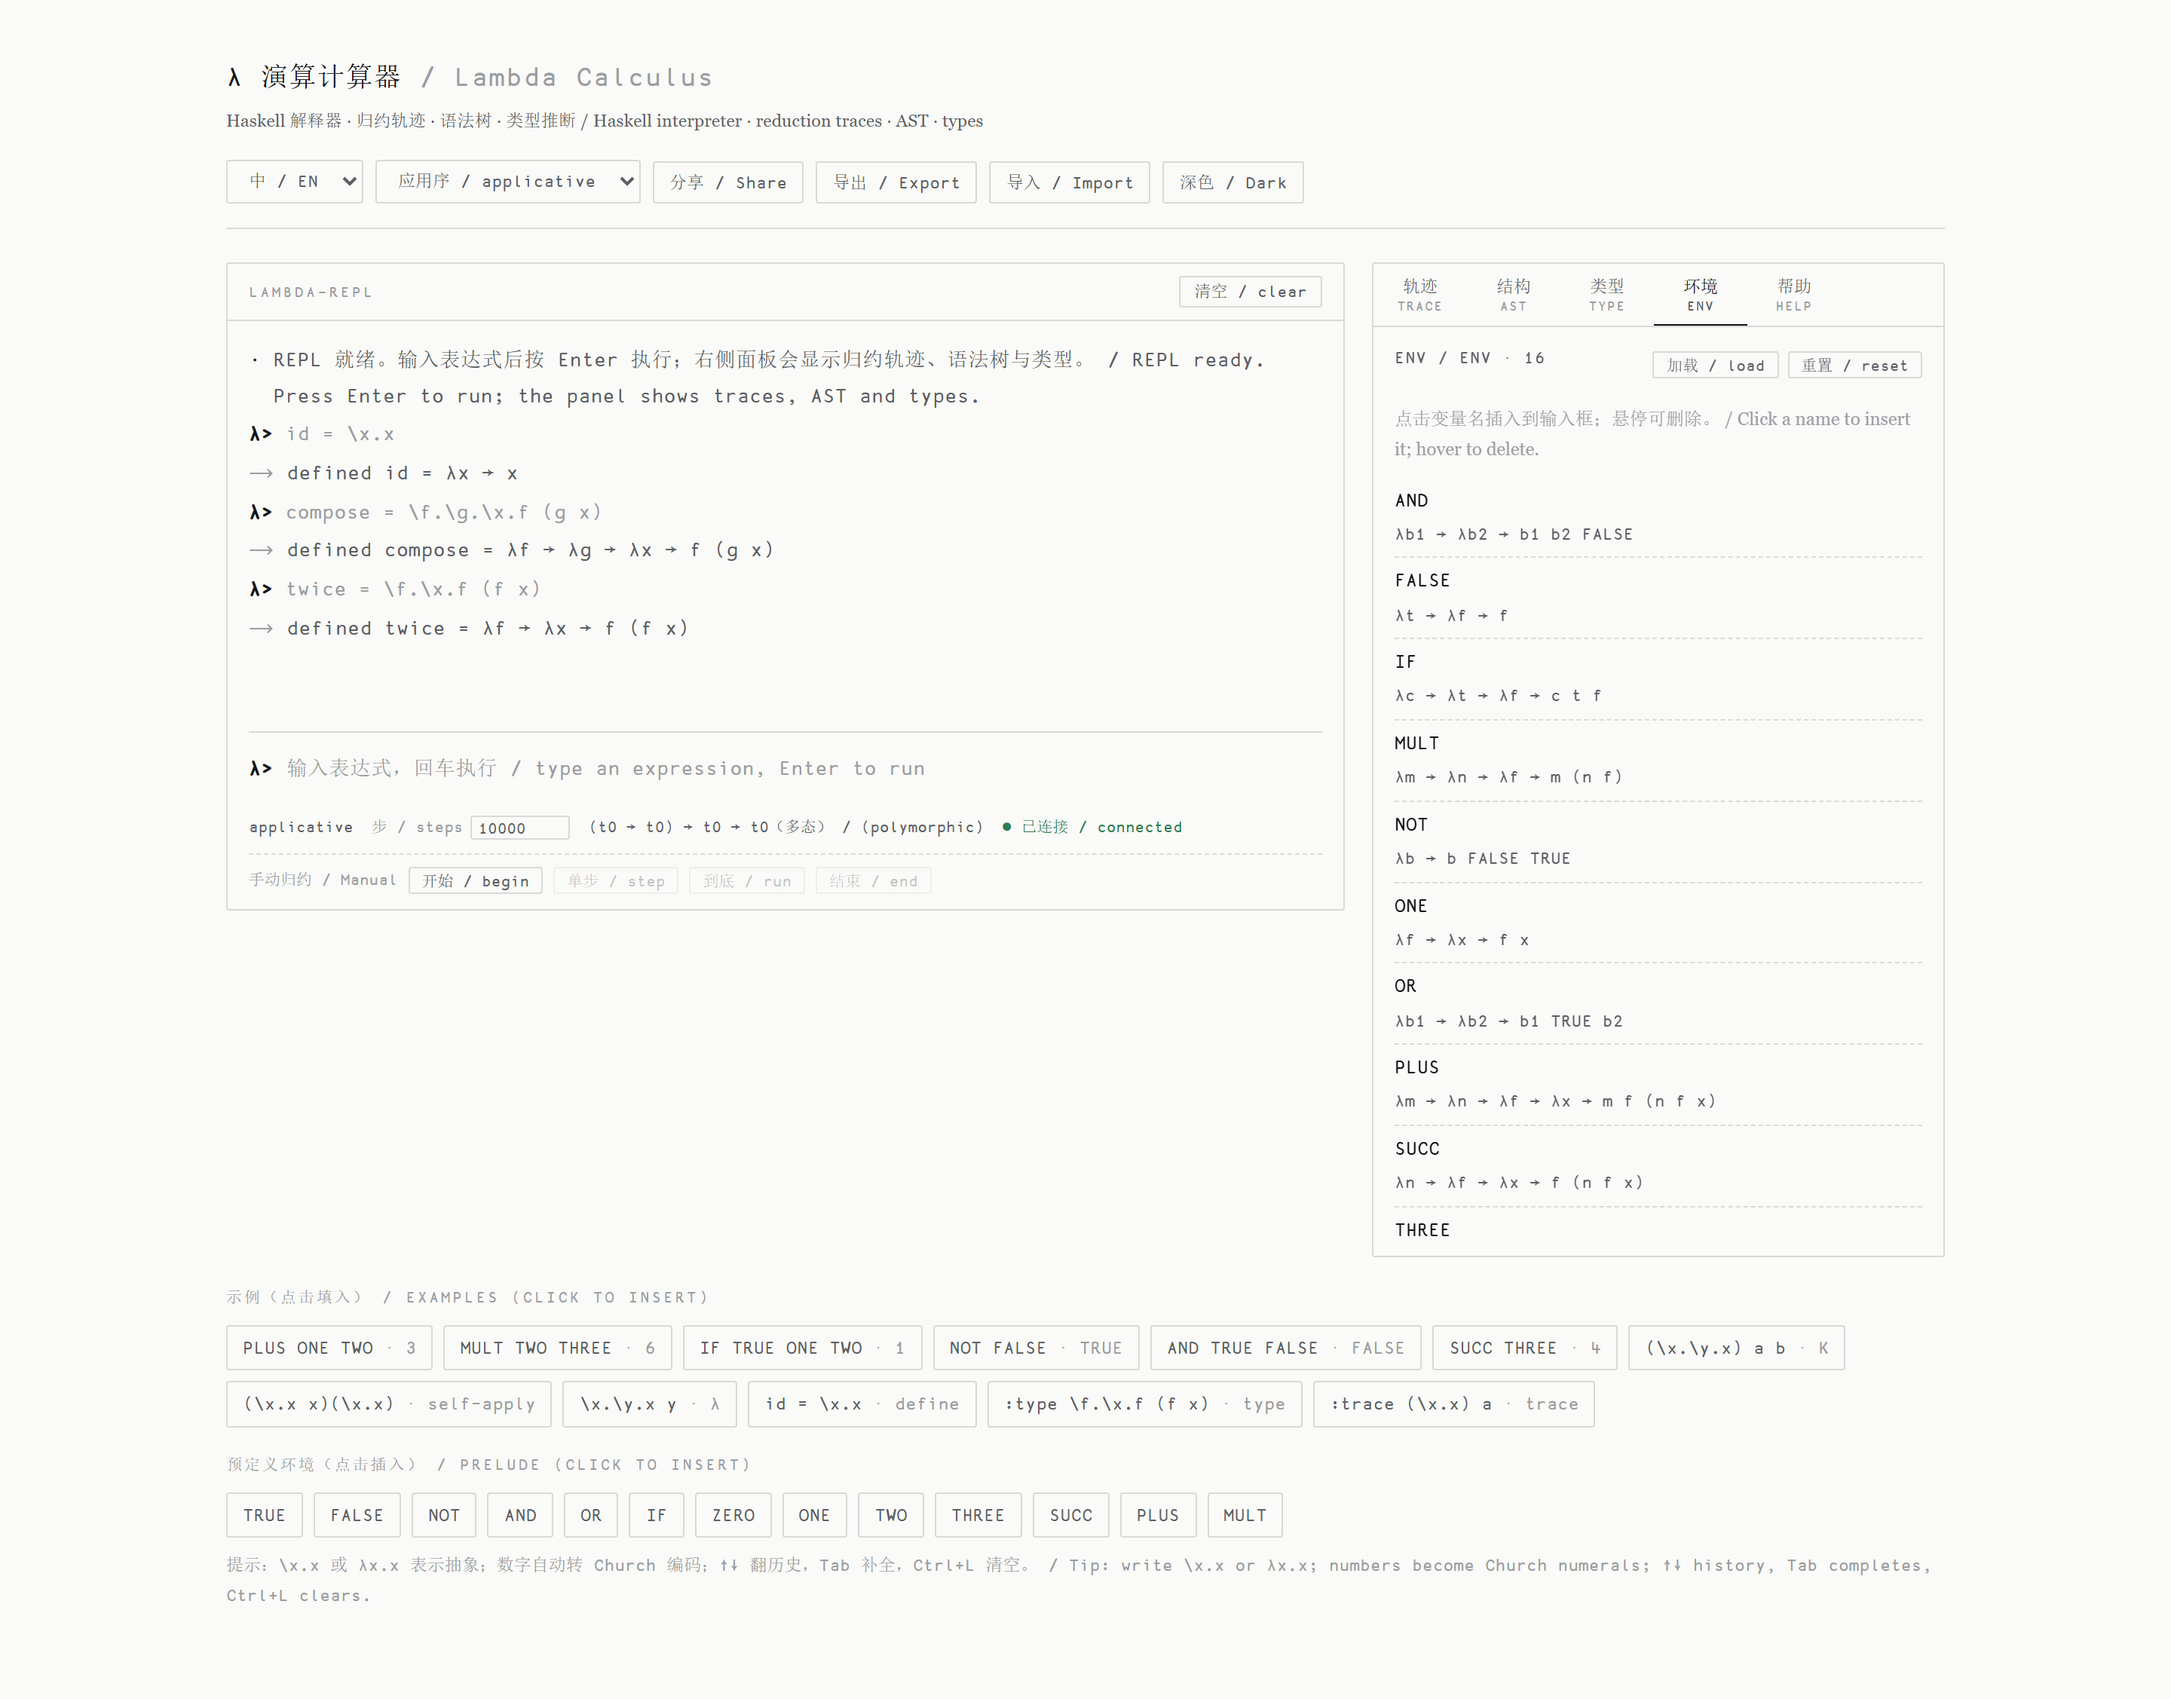
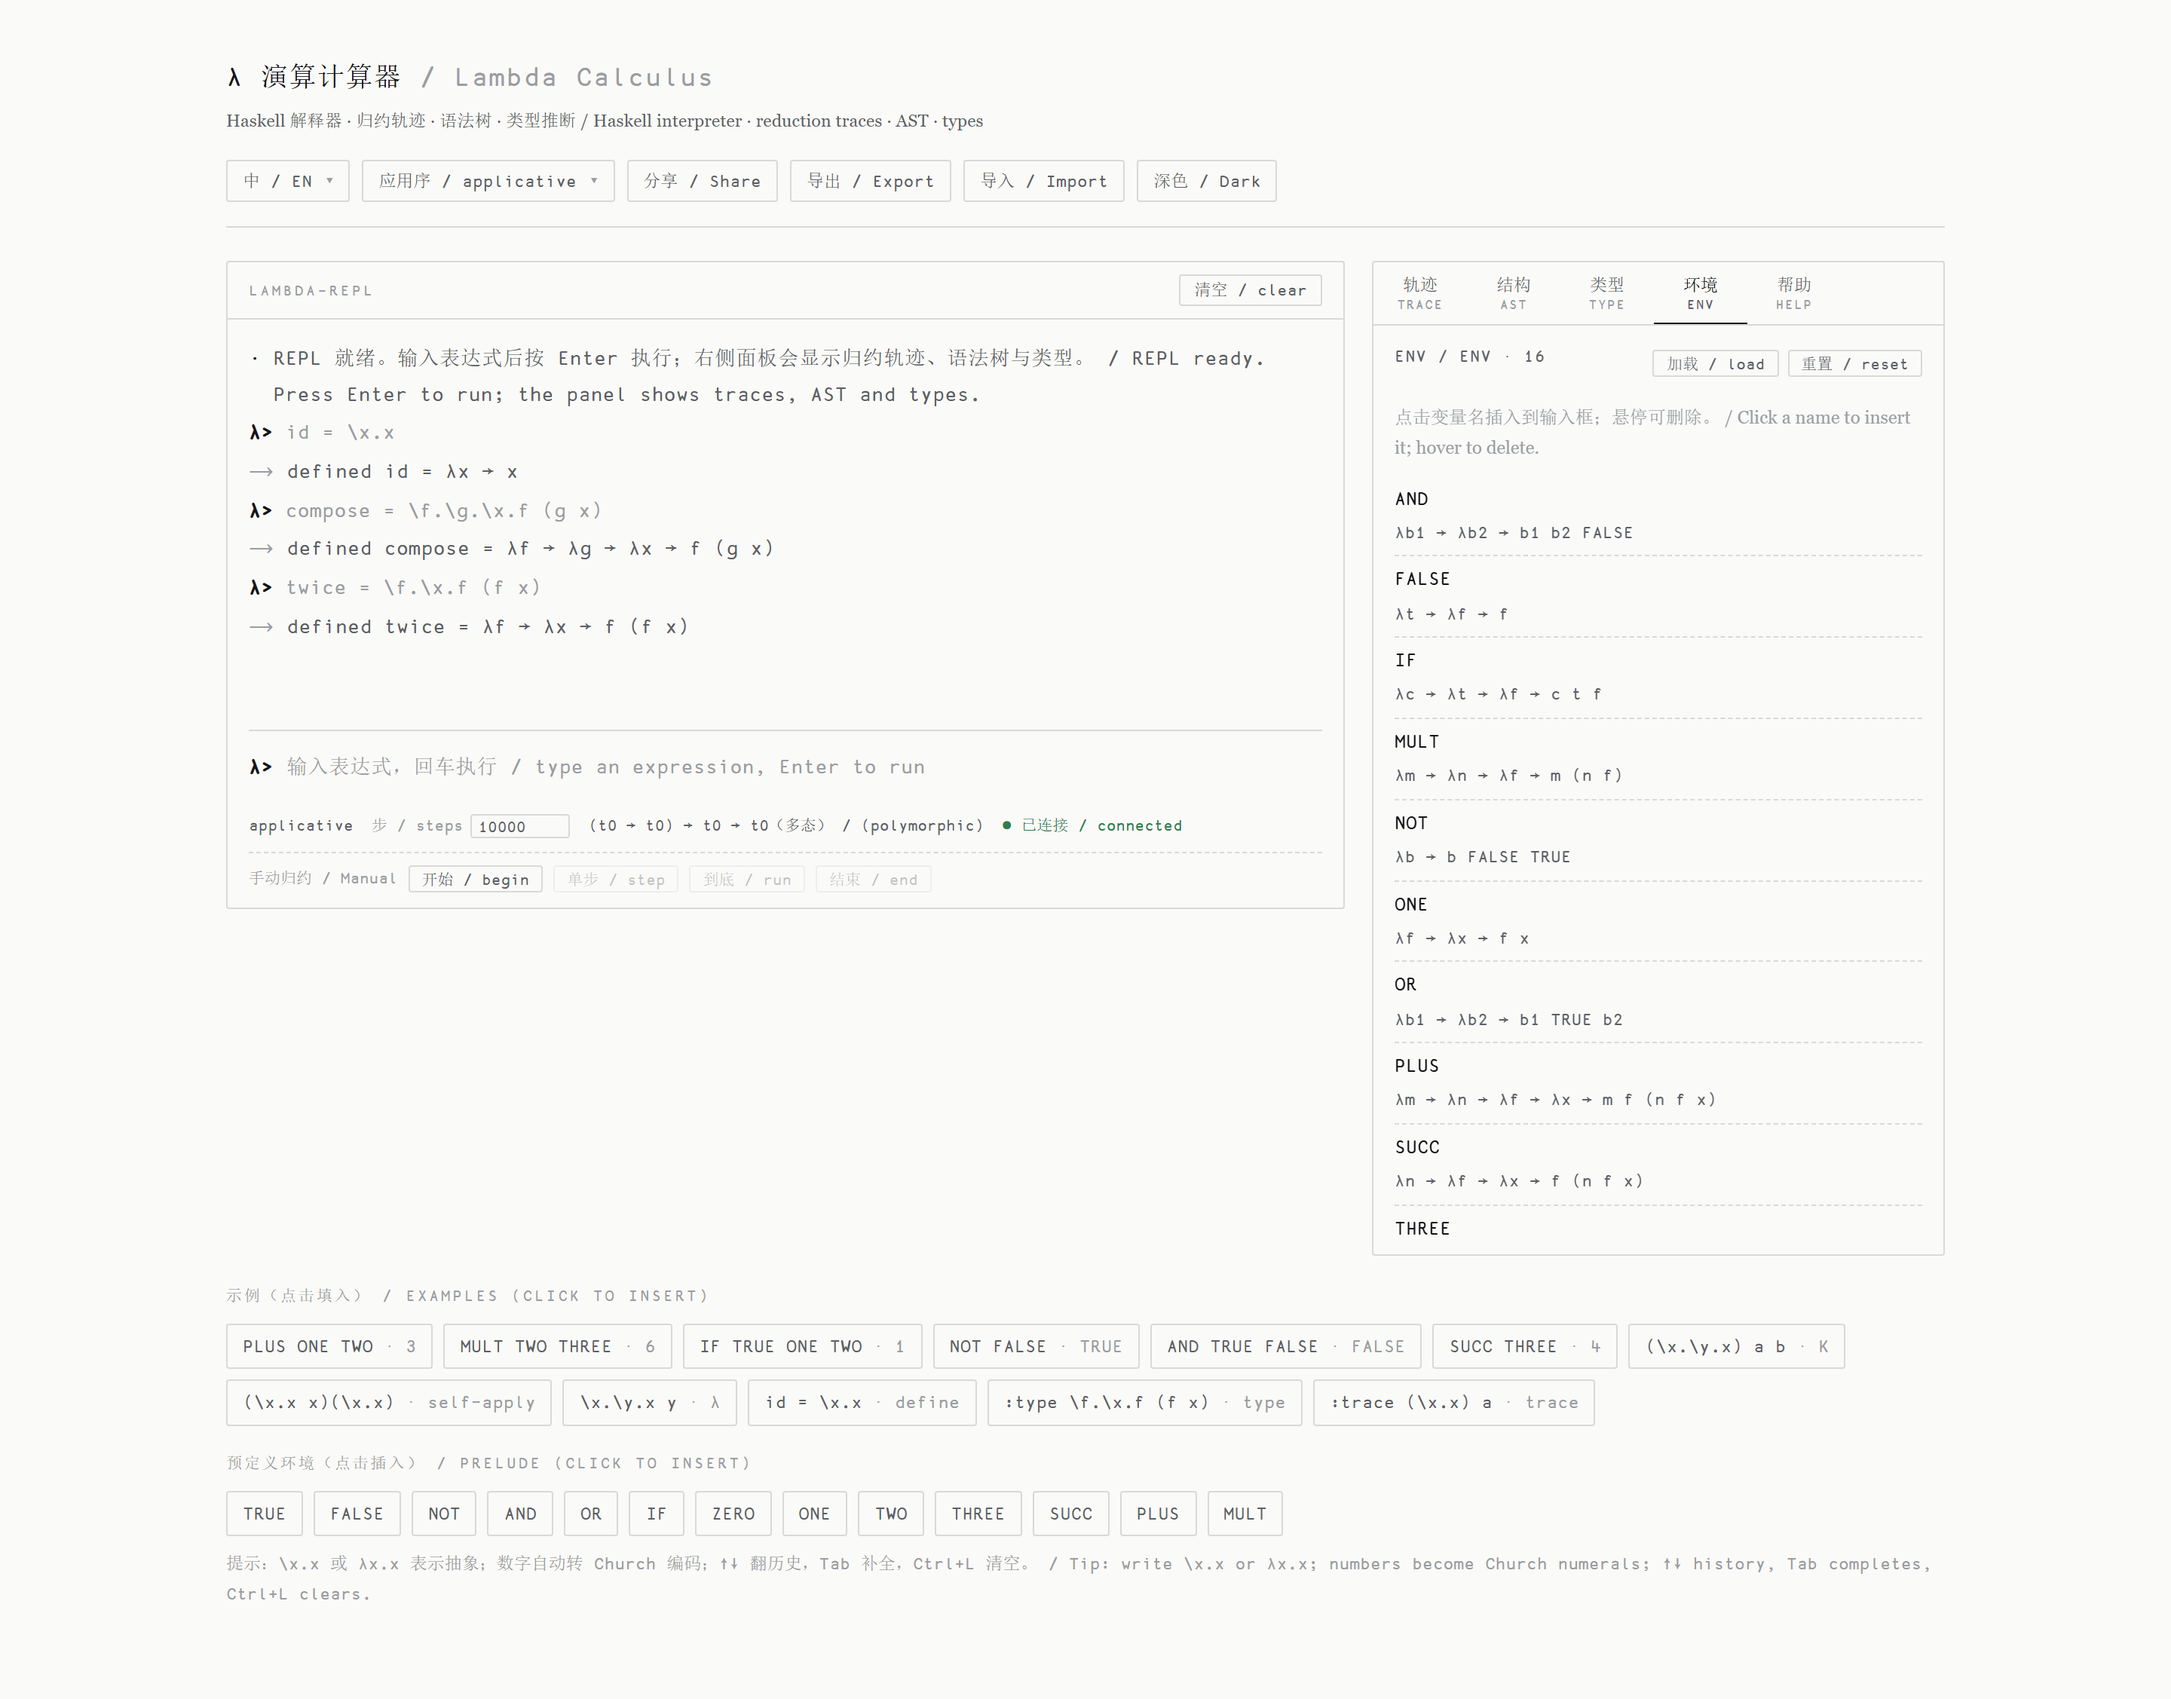
docs: record the no-native-popups rule and refresh screenshots
Adds the custom select/dialog convention to AGENTS and regenerates the README images with the new controls.

diff --git a/AGENTS.md b/AGENTS.md
@@ -50,6 +50,8 @@ Chinese/English**.
 - Every `Command` has a UI entry: manual reduction controls (`:begin`/`:step`/
   `:run`/`:end`), the step-limit input (`:steps`), Env **load** (`:load`) and
   **reset** (`:reset`). Keep it that way when adding commands.
+- Do not use native `select`, `prompt`, `confirm` or `alert`: use the custom
+  `.sel` menus and the `dialog()` helper so popups match the wireframe theme.
 - `:load` is confined to `INTERP_DIR` by default (`LAMBDA_LOAD_ROOT=*` disables
   the check); `web/app.py` rejects escaping paths with 400.
 - `--batch` sets stdin/stdout/stderr to UTF-8, which removes the old Windows
